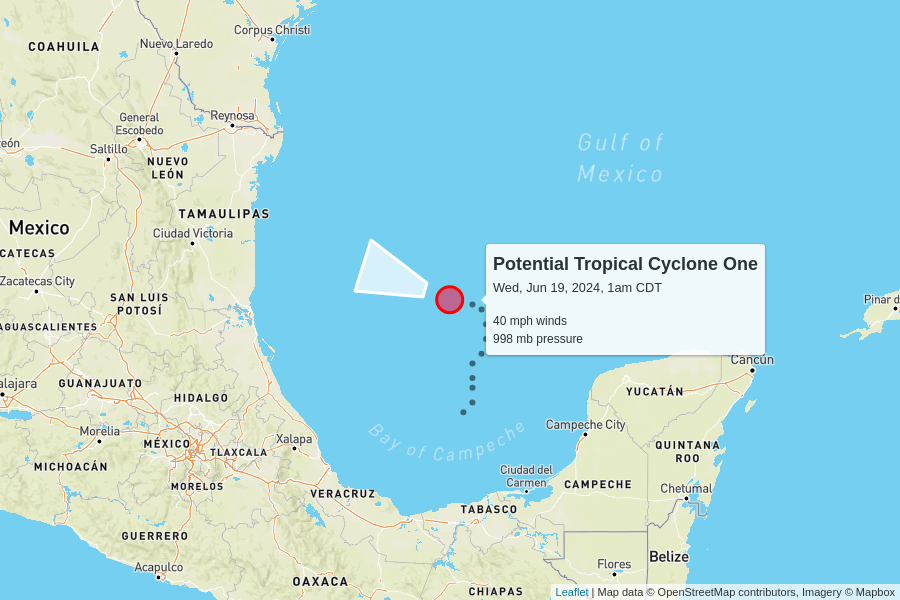
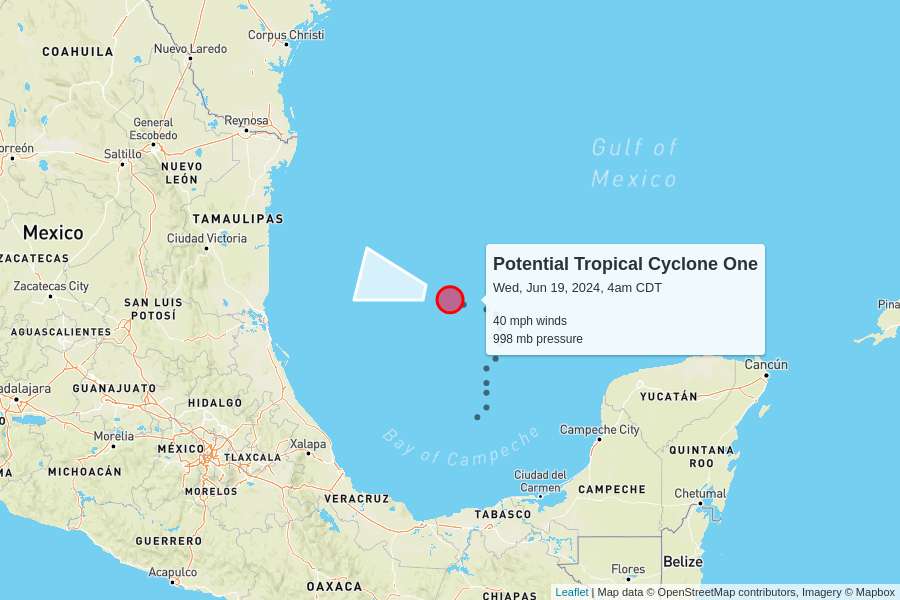
automatic update

diff --git a/docs/index.html b/docs/index.html
@@ -102,7 +102,7 @@
         <td colspan="6" class="storm category-0" >
           <h2>
             Potential Tropical Cyclone One
-            <p class="updated">last updated <span data-time>2024-06-19T06:00:00.000Z</span></p>
+            <p class="updated">last updated <span data-time>2024-06-19T09:00:00.000Z</span></p>
           </h2>
         </td>
       </tr>
@@ -118,11 +118,11 @@
       <tr>
         <td class="spacer"></td>
         <td>40 mph<br>0 mph since last update</td>
-        <td>998 mb<br>-1 mb since last update</td>
+        <td>998 mb<br>0 mb since last update</td>
         <td>
-          7 mph to the west-northwest
+          8 mph to the west-northwest
           <br/>
-          <span style="display: inline-block; font-size: 1.5em; transform: rotate(290deg);">↑</span>
+          <span style="display: inline-block; font-size: 1.5em; transform: rotate(285deg);">↑</span>
         </td>
         <td><a href="https://raw.githubusercontent.com/mgwalker/atlantic-hurricanes/main/data/csv/AL012024.csv">AL012024.csv</a></td>
         <td><a href="https://www.nhc.noaa.gov/archive/2024/ONE.shtml?">NHC advisories</a></td>
